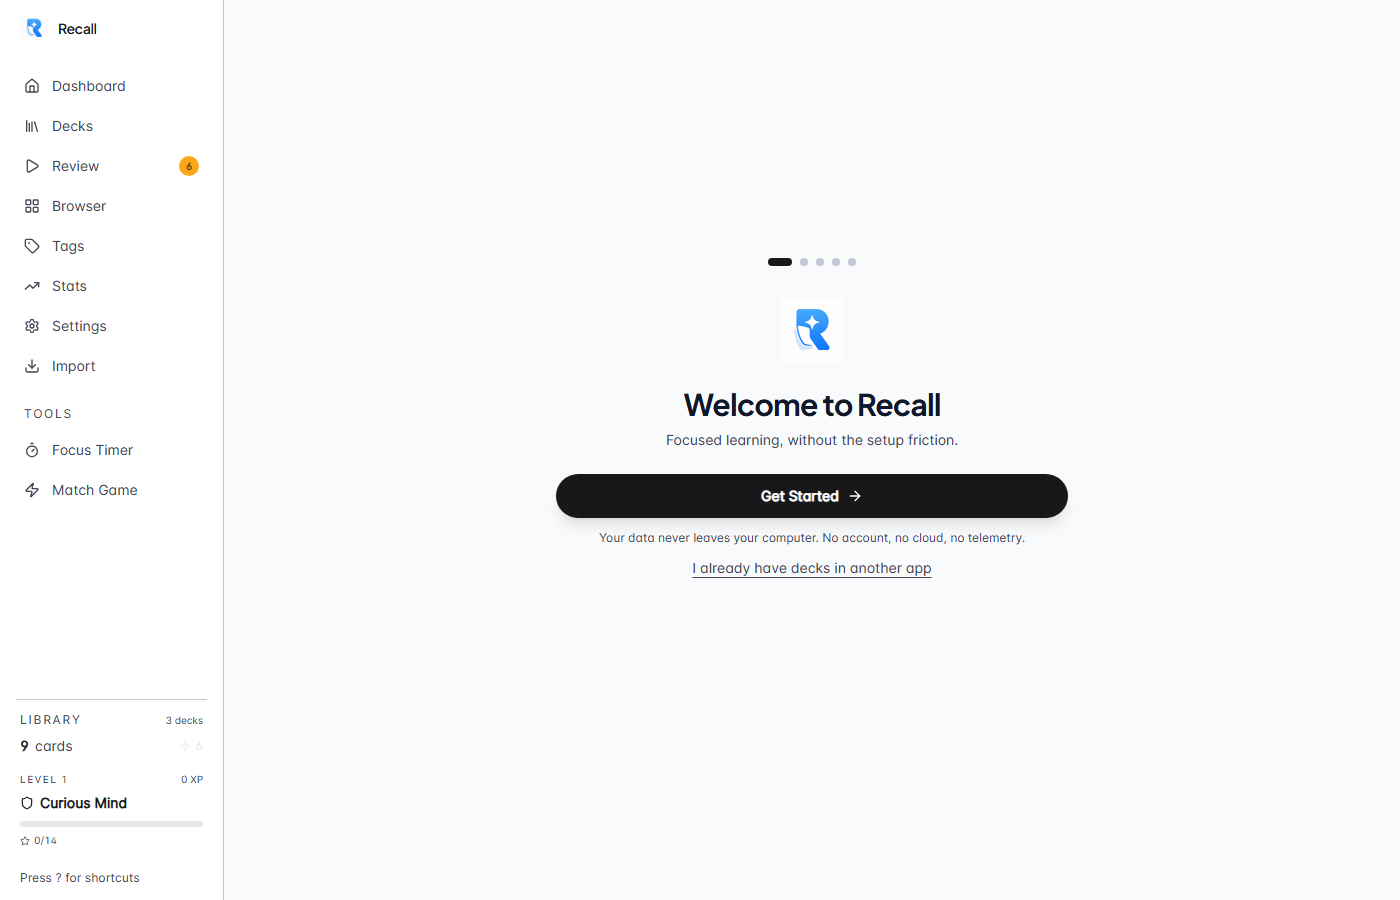
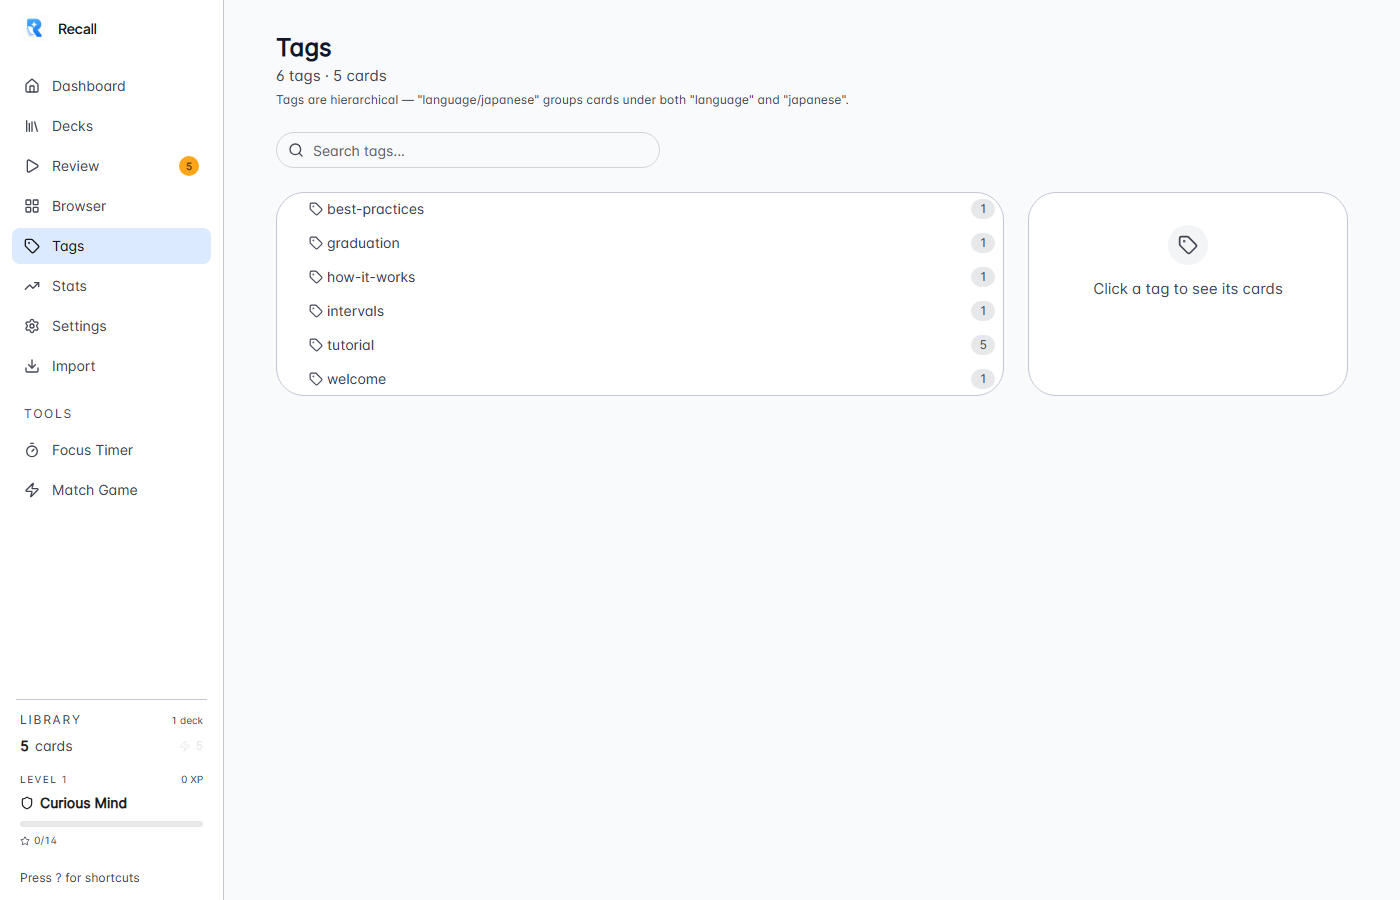
chore: fix CI, pin Node, recapture distinct README screenshots
- Import Deck/Card types in onboarding (tsc build fail on main)
- rustfmt db_atomic + lib import sort
- CI/pages/release: node-version-file .node-version
- Dependabot: ignore major tailwindcss + typescript
- Rewrite take-screenshots.js; 9 distinct captures
- Closed Dependabot PR #46 (breaking multi-major group)

diff --git a/scripts/take-screenshots.js b/scripts/take-screenshots.js
@@ -1,33 +1,128 @@
-import { chromium } from '@playwright/test';
+/**
+ * Capture README screenshots into docs/screenshots/.
+ * Requires: pnpm dev on http://localhost:5173 and Playwright Chromium.
+ *
+ *   node scripts/take-screenshots.js
+ */
+import { createHash } from "node:crypto";
+import { readFileSync } from "node:fs";
+import { chromium } from "@playwright/test";
+
+const BASE = process.env.RECALL_URL ?? "http://localhost:5173";
+const OUT = "docs/screenshots";
+const VIEWPORT = { width: 1400, height: 900 };
+
+async function completeOnboardingWithTemplate(page) {
+  await page.goto(BASE);
+  await page.evaluate(() => {
+    localStorage.clear();
+    sessionStorage.clear();
+  });
+  await page.reload();
+  await page.waitForSelector("[role='region'][aria-label='Welcome to Recall']", { timeout: 15000 });
+
+  await page.getByRole("button", { name: /Get Started/i }).click();
+  await page.getByRole("button", { name: /Continue/i }).click();
+  await page.getByRole("button", { name: /^Next$/i }).click();
+
+  await page.getByRole("button", { name: /How This Works/i }).click();
+  await page.getByRole("button", { name: /Continue \(1\)/i }).click();
+  await page.getByRole("button", { name: /Start Learning/i }).click();
+  await page.getByText("Your Decks").waitFor({ timeout: 15000 });
+}
+
+function sidebar(page) {
+  return page.getByRole("navigation", { name: /Main navigation/i });
+}
+
+async function shot(page, name) {
+  const path = `${OUT}/${name}`;
+  await page.waitForTimeout(400);
+  await page.screenshot({ path, fullPage: false });
+  console.log(`✓ ${name}`);
+  return path;
+}
+
+function assertDistinct(paths) {
+  const hashes = new Map();
+  for (const path of paths) {
+    const hash = createHash("sha256").update(readFileSync(path)).digest("hex");
+    if (hashes.has(hash)) {
+      throw new Error(`Duplicate screenshot content: ${path} == ${hashes.get(hash)}`);
+    }
+    hashes.set(hash, path);
+  }
+  console.log(`✓ ${paths.length} distinct screenshots`);
+}
 
 (async () => {
   const browser = await chromium.launch();
   const context = await browser.newContext({
-    viewport: { width: 1280, height: 800 }
+    viewport: VIEWPORT,
+    deviceScaleFactor: 1,
   });
   const page = await context.newPage();
+  const paths = [];
 
-  // Start the dev server if not already running
-  await page.goto('http://localhost:5173');
-  await page.waitForLoadState('networkidle');
+  try {
+    await completeOnboardingWithTemplate(page);
+    paths.push(await shot(page, "dashboard.png"));
 
-  // Click "Try with Demo Cards" to get past onboarding
-  await page.click('button:has-text("Try with Demo Cards")');
-  await page.waitForTimeout(1000);
+    await sidebar(page).getByRole("button", { name: /^Decks$/i }).click();
+    await page.waitForTimeout(500);
+    paths.push(await shot(page, "deck-browser.png"));
 
-  // Take dashboard screenshot
-  await page.screenshot({ path: 'docs/screenshots/dashboard.png', fullPage: false });
-  console.log('✓ dashboard.png');
+    // Deck card accessible name includes emoji + stats
+    await page.getByRole("button", { name: /How This Works/i }).first().click();
+    // aria-label is "Start studying this deck"
+    await page.getByRole("button", { name: /Start studying this deck|Study Now/i }).waitFor({ timeout: 15000 });
+    paths.push(await shot(page, "deck-detail.png"));
 
-  // Navigate to stats
-  await page.click('button:has-text("Stats")');
-  await page.waitForTimeout(500);
-  await page.screenshot({ path: 'docs/screenshots/stats.png', fullPage: false });
-  console.log('✓ stats.png');
+    await page.getByRole("button", { name: /Start studying this deck|Study Now/i }).click();
+    await page.waitForTimeout(800);
+    paths.push(await shot(page, "study.png"));
 
-  // Note: study.png needs to be captured manually in the actual Tauri app
-  console.log('\n⚠ study.png needs manual capture in the Tauri app (browser mode doesn\'t support study interaction)');
+    const reveal = page.getByRole("button", { name: /^Reveal$/i });
+    if (await reveal.isVisible().catch(() => false)) {
+      await reveal.click();
+    } else {
+      await page.keyboard.press("Space");
+    }
+    await page.waitForTimeout(500);
+    paths.push(await shot(page, "study-revealed.png"));
 
-  await browser.close();
-  console.log('\nAll screenshots captured!');
-})();
+    // Study mode may hide sidebar — use Exit control first
+    const exitStudy = page.getByRole("button", { name: /Exit study mode|^Exit$/i });
+    if (await exitStudy.count()) {
+      await exitStudy.first().click();
+      await page.waitForTimeout(500);
+    }
+
+    await sidebar(page).getByRole("button", { name: /^Dashboard$/i }).click();
+    await page.waitForTimeout(500);
+
+    await sidebar(page).getByRole("button", { name: /^Stats$/i }).click();
+    await page.waitForTimeout(600);
+    paths.push(await shot(page, "stats.png"));
+
+    await sidebar(page).getByRole("button", { name: /^Tags$/i }).click();
+    await page.waitForTimeout(500);
+    paths.push(await shot(page, "tags.png"));
+
+    await sidebar(page).getByRole("button", { name: /^Browser$/i }).click();
+    await page.waitForTimeout(500);
+    paths.push(await shot(page, "card-browser.png"));
+
+    await sidebar(page).getByRole("button", { name: /^Settings$/i }).click();
+    await page.waitForTimeout(500);
+    paths.push(await shot(page, "settings.png"));
+
+    assertDistinct(paths);
+    console.log("\nAll screenshots captured.");
+  } finally {
+    await browser.close();
+  }
+})().catch((err) => {
+  console.error(err);
+  process.exit(1);
+});

diff --git a/src/components/onboarding.tsx b/src/components/onboarding.tsx
@@ -7,6 +7,7 @@ import { TEMPLATE_DECKS, createCardsFromTemplate, type TemplateDeck } from "@/da
 import { RecallLogo } from "@/components/recall-logo";
 import { cn } from "@/lib/utils";
 import { cardSurface, typeClass } from "@/lib/surface";
+import type { Card, Deck } from "@/types";
 
 type Step = "welcome" | "concept" | "system" | "templates" | "goal";
 

diff --git a/src-tauri/src/db_atomic.rs b/src-tauri/src/db_atomic.rs
@@ -556,7 +556,11 @@ pub async fn move_cards_to_deck(
     let params: Vec<Box<dyn rusqlite::ToSql>> =
         vec![Box::new(&deck_id) as Box<dyn rusqlite::ToSql>]
             .into_iter()
-            .chain(card_ids.iter().map(|id| Box::new(id) as Box<dyn rusqlite::ToSql>))
+            .chain(
+                card_ids
+                    .iter()
+                    .map(|id| Box::new(id) as Box<dyn rusqlite::ToSql>),
+            )
             .collect();
 
     let param_refs: Vec<&dyn rusqlite::ToSql> = params.iter().map(|p| p.as_ref()).collect();
@@ -588,16 +592,16 @@ pub async fn update_cards_tags(
         .map_err(|e| format!("BEGIN failed: {}", e))?;
 
     let placeholders = card_ids.iter().map(|_| "?").collect::<Vec<_>>().join(", ");
-    let sql = format!(
-        "UPDATE cards SET tags = ? WHERE id IN ({})",
-        placeholders
-    );
+    let sql = format!("UPDATE cards SET tags = ? WHERE id IN ({})", placeholders);
 
-    let params: Vec<Box<dyn rusqlite::ToSql>> =
-        vec![Box::new(&tags) as Box<dyn rusqlite::ToSql>]
-            .into_iter()
-            .chain(card_ids.iter().map(|id| Box::new(id) as Box<dyn rusqlite::ToSql>))
-            .collect();
+    let params: Vec<Box<dyn rusqlite::ToSql>> = vec![Box::new(&tags) as Box<dyn rusqlite::ToSql>]
+        .into_iter()
+        .chain(
+            card_ids
+                .iter()
+                .map(|id| Box::new(id) as Box<dyn rusqlite::ToSql>),
+        )
+        .collect();
 
     let param_refs: Vec<&dyn rusqlite::ToSql> = params.iter().map(|p| p.as_ref()).collect();
 
@@ -628,16 +632,16 @@ pub async fn update_cards_state(
         .map_err(|e| format!("BEGIN failed: {}", e))?;
 
     let placeholders = card_ids.iter().map(|_| "?").collect::<Vec<_>>().join(", ");
-    let sql = format!(
-        "UPDATE cards SET state = ? WHERE id IN ({})",
-        placeholders
-    );
+    let sql = format!("UPDATE cards SET state = ? WHERE id IN ({})", placeholders);
 
-    let params: Vec<Box<dyn rusqlite::ToSql>> =
-        vec![Box::new(&state) as Box<dyn rusqlite::ToSql>]
-            .into_iter()
-            .chain(card_ids.iter().map(|id| Box::new(id) as Box<dyn rusqlite::ToSql>))
-            .collect();
+    let params: Vec<Box<dyn rusqlite::ToSql>> = vec![Box::new(&state) as Box<dyn rusqlite::ToSql>]
+        .into_iter()
+        .chain(
+            card_ids
+                .iter()
+                .map(|id| Box::new(id) as Box<dyn rusqlite::ToSql>),
+        )
+        .collect();
 
     let param_refs: Vec<&dyn rusqlite::ToSql> = params.iter().map(|p| p.as_ref()).collect();
 

diff --git a/src-tauri/src/lib.rs b/src-tauri/src/lib.rs
@@ -3,10 +3,10 @@ mod db_atomic;
 
 use anki_import::parse_anki_apkg;
 use db_atomic::{
-    create_safety_backup, delete_card_atomic, delete_cards_atomic, delete_deck_atomic, query_cards,
-    record_review_atomic, save_snapshot_atomic, upsert_card_atomic, upsert_deck_atomic,
-    upsert_setting_atomic, move_cards_to_deck, update_cards_tags, update_cards_state,
-    upsert_cards_batch,
+    create_safety_backup, delete_card_atomic, delete_cards_atomic, delete_deck_atomic,
+    move_cards_to_deck, query_cards, record_review_atomic, save_snapshot_atomic,
+    update_cards_state, update_cards_tags, upsert_card_atomic, upsert_cards_batch,
+    upsert_deck_atomic, upsert_setting_atomic,
 };
 use tauri::tray::{TrayIconBuilder, TrayIconEvent};
 use tauri::Emitter;
